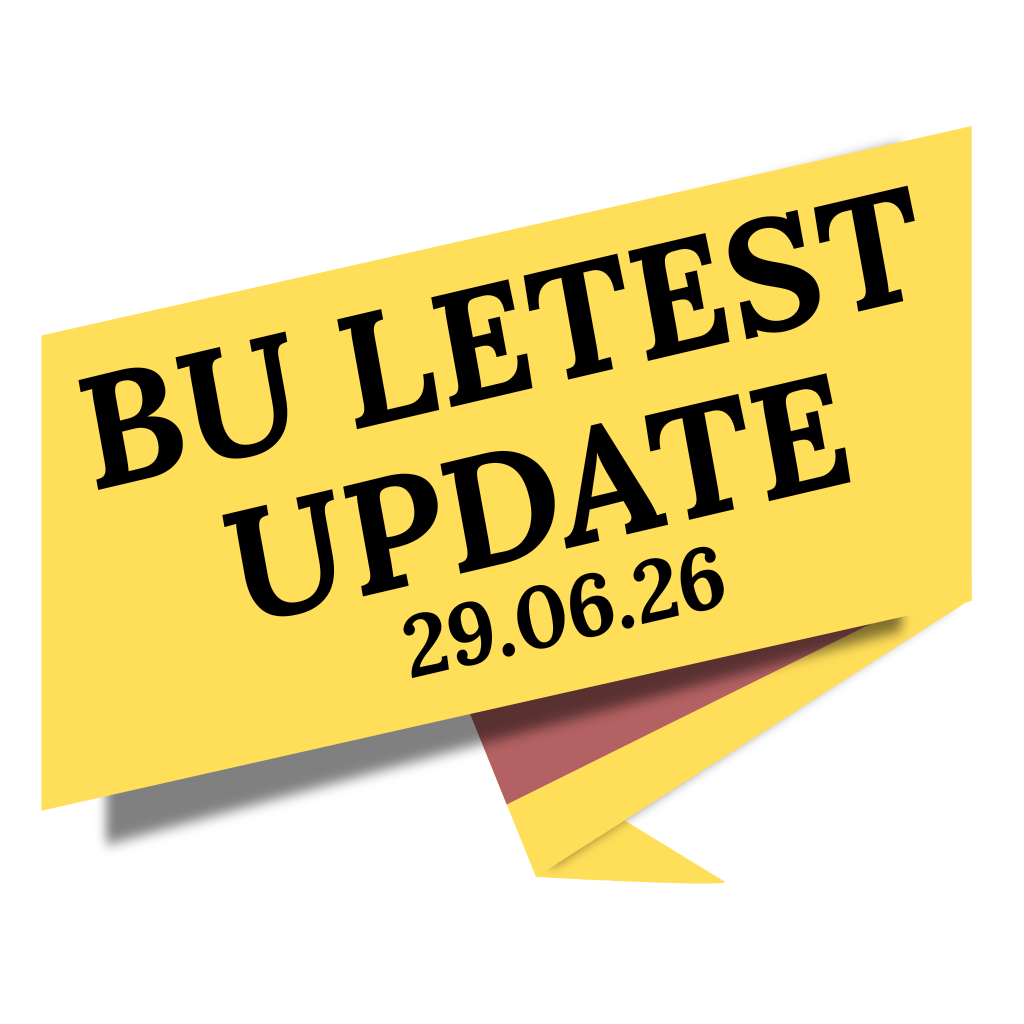
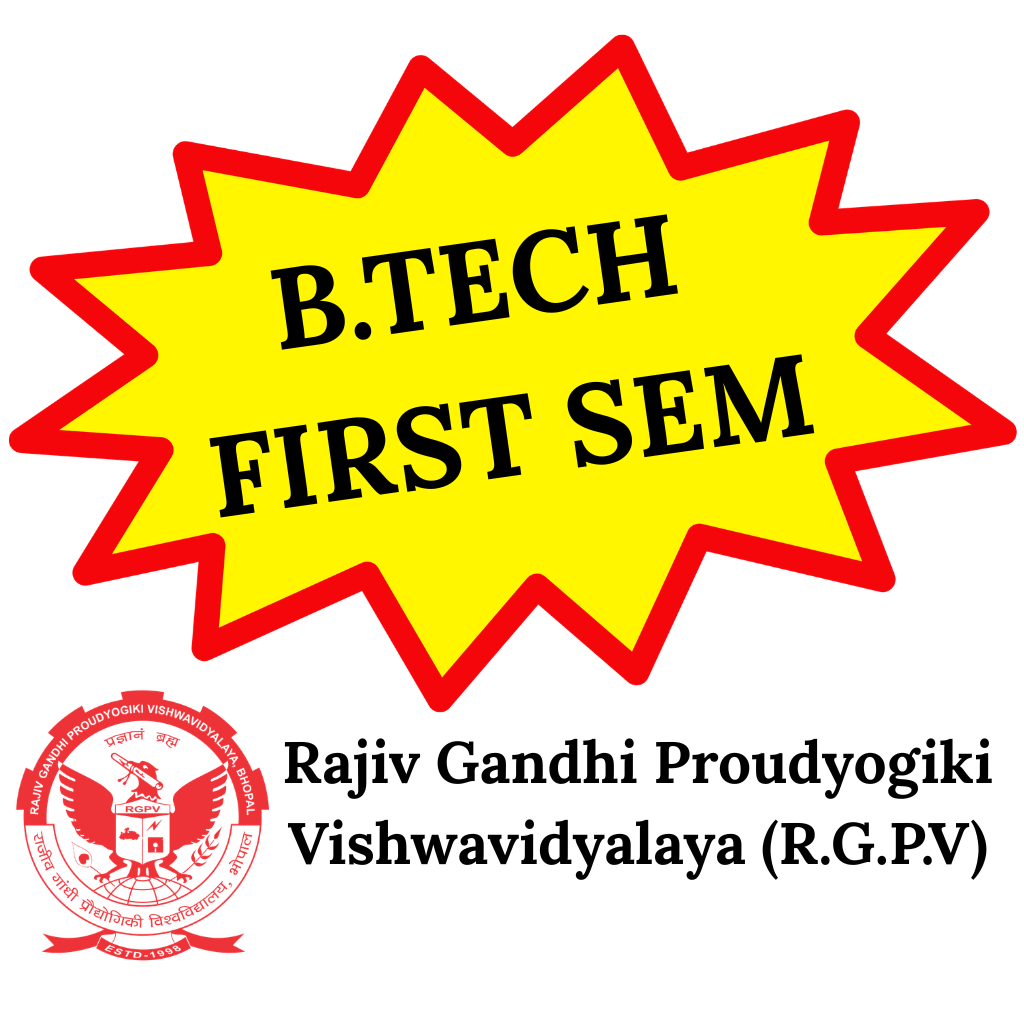
07.07.2026 result update

diff --git a/website/src/pages/HomePage.jsx b/website/src/pages/HomePage.jsx
@@ -54,12 +54,18 @@ export function HomePage() {
                 />
               </div>*/}
               <div className="home-page__sponsor-wrap home-page__stickers">
-                <img
-                  src="/Sticker1.png"
-                  alt="Action sticker 1"
-                  className="home-page__sponsor-img"
-                  loading="lazy"
-                />
+                <a
+                  href="https://result.rgpv.ac.in/Result/ProgramSelect.aspx"
+                  target="_blank"
+                  rel="noopener noreferrer"
+                >
+                  <img
+                    src="/Sticker1.png"
+                    alt="Action sticker 1"
+                    className="home-page__sponsor-img"
+                    loading="lazy"
+                  />
+                </a>
                 <a
                   href="https://bubhopal.mponline.gov.in/Portal/Services/BARKATULLAH/Counterbase/Result/VeiwResult.aspx"
                   target="_blank"